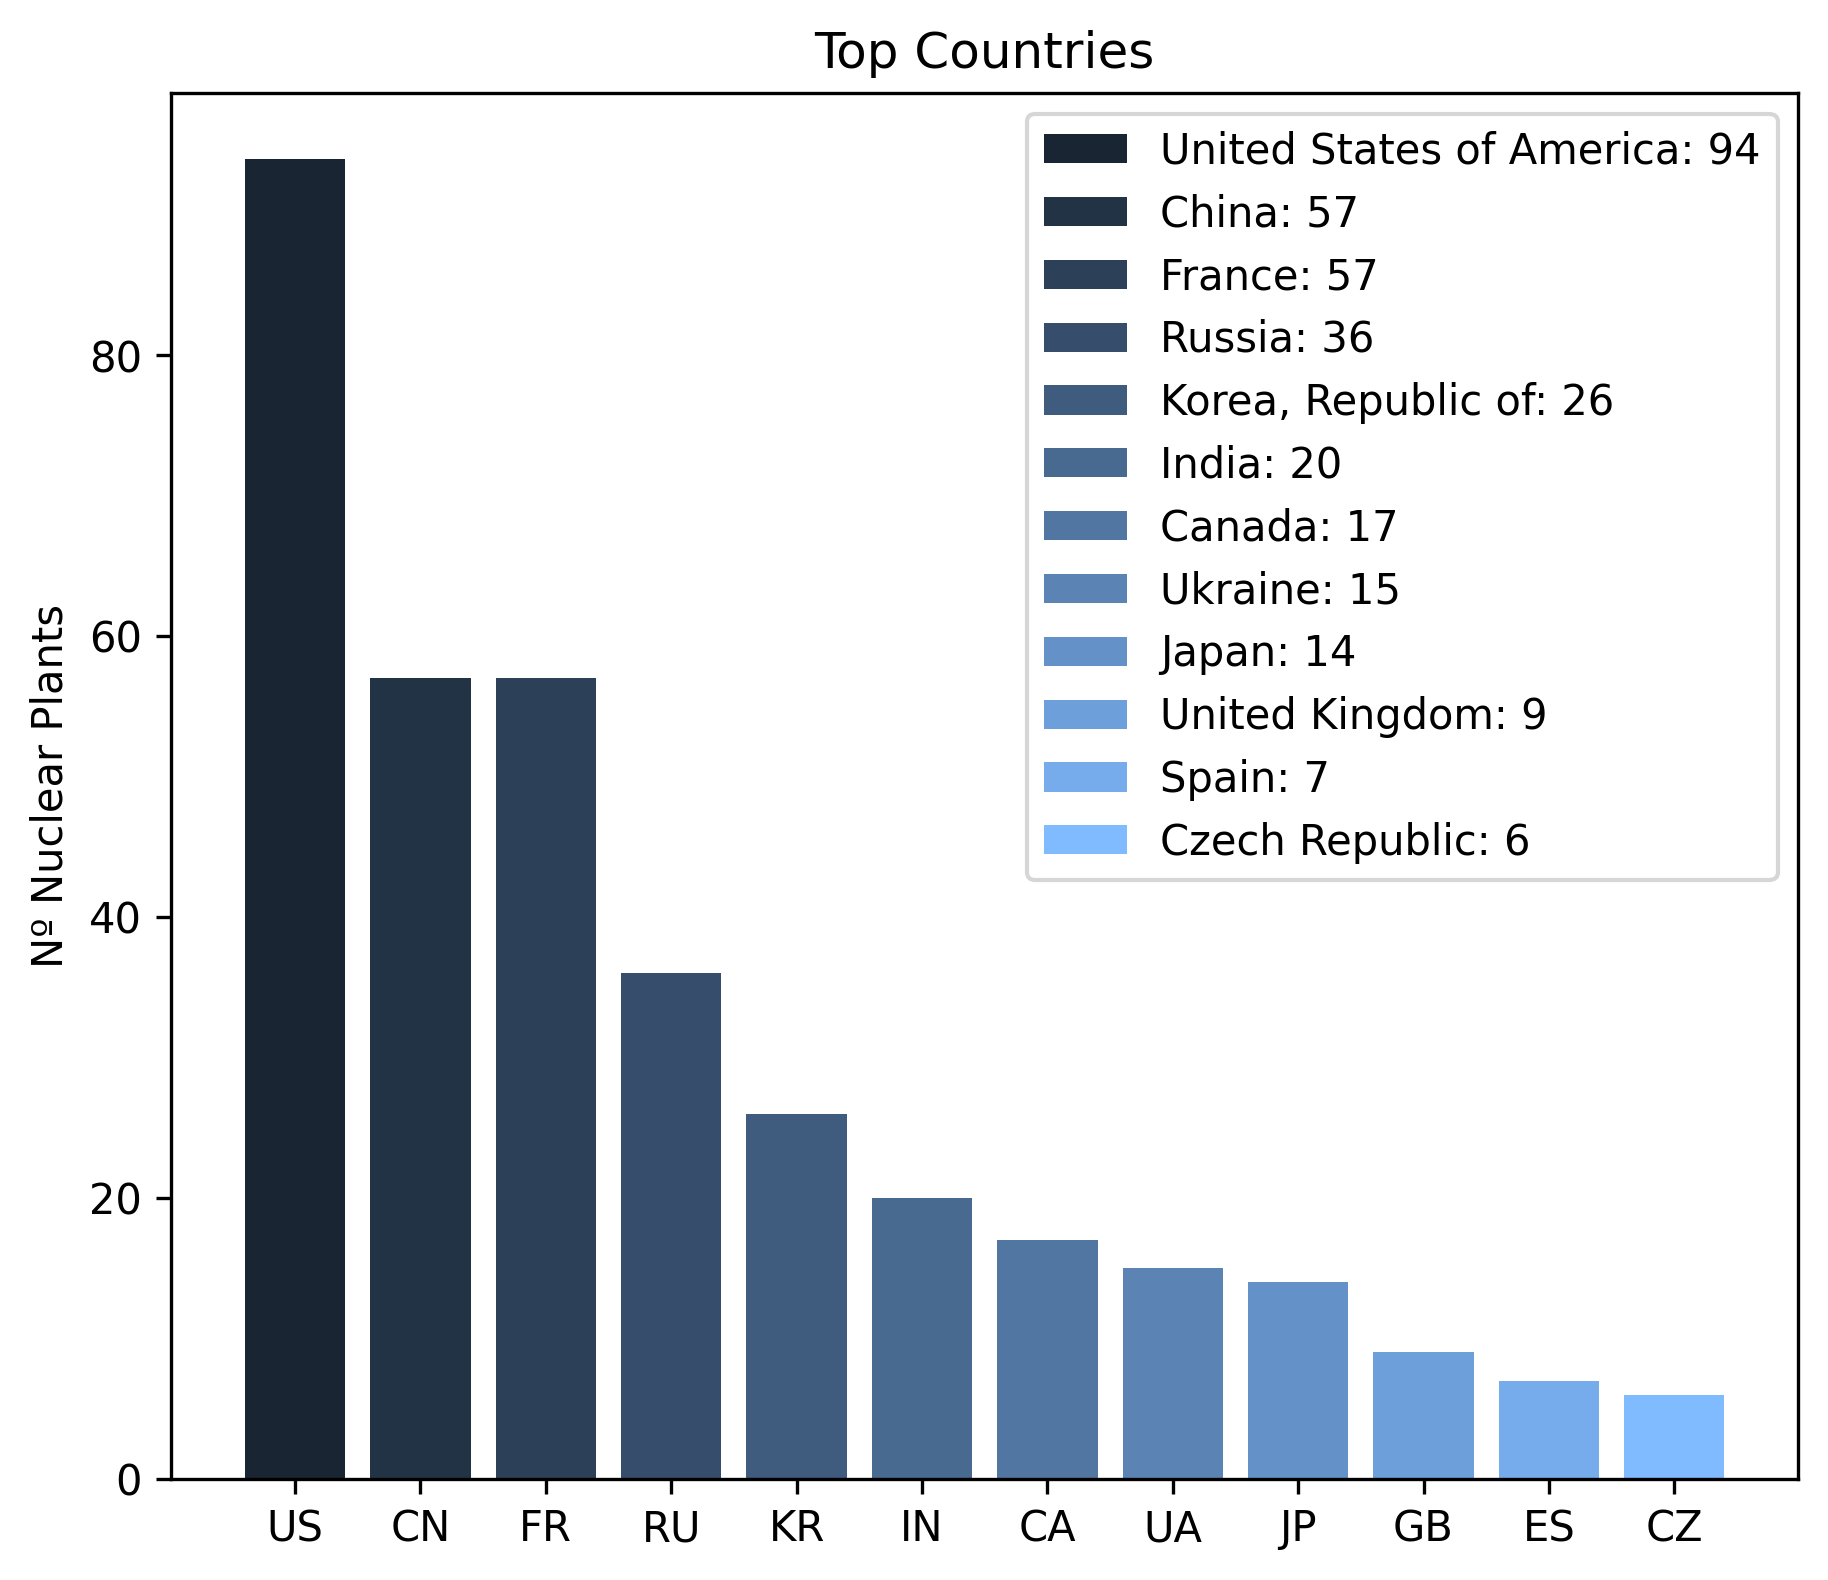
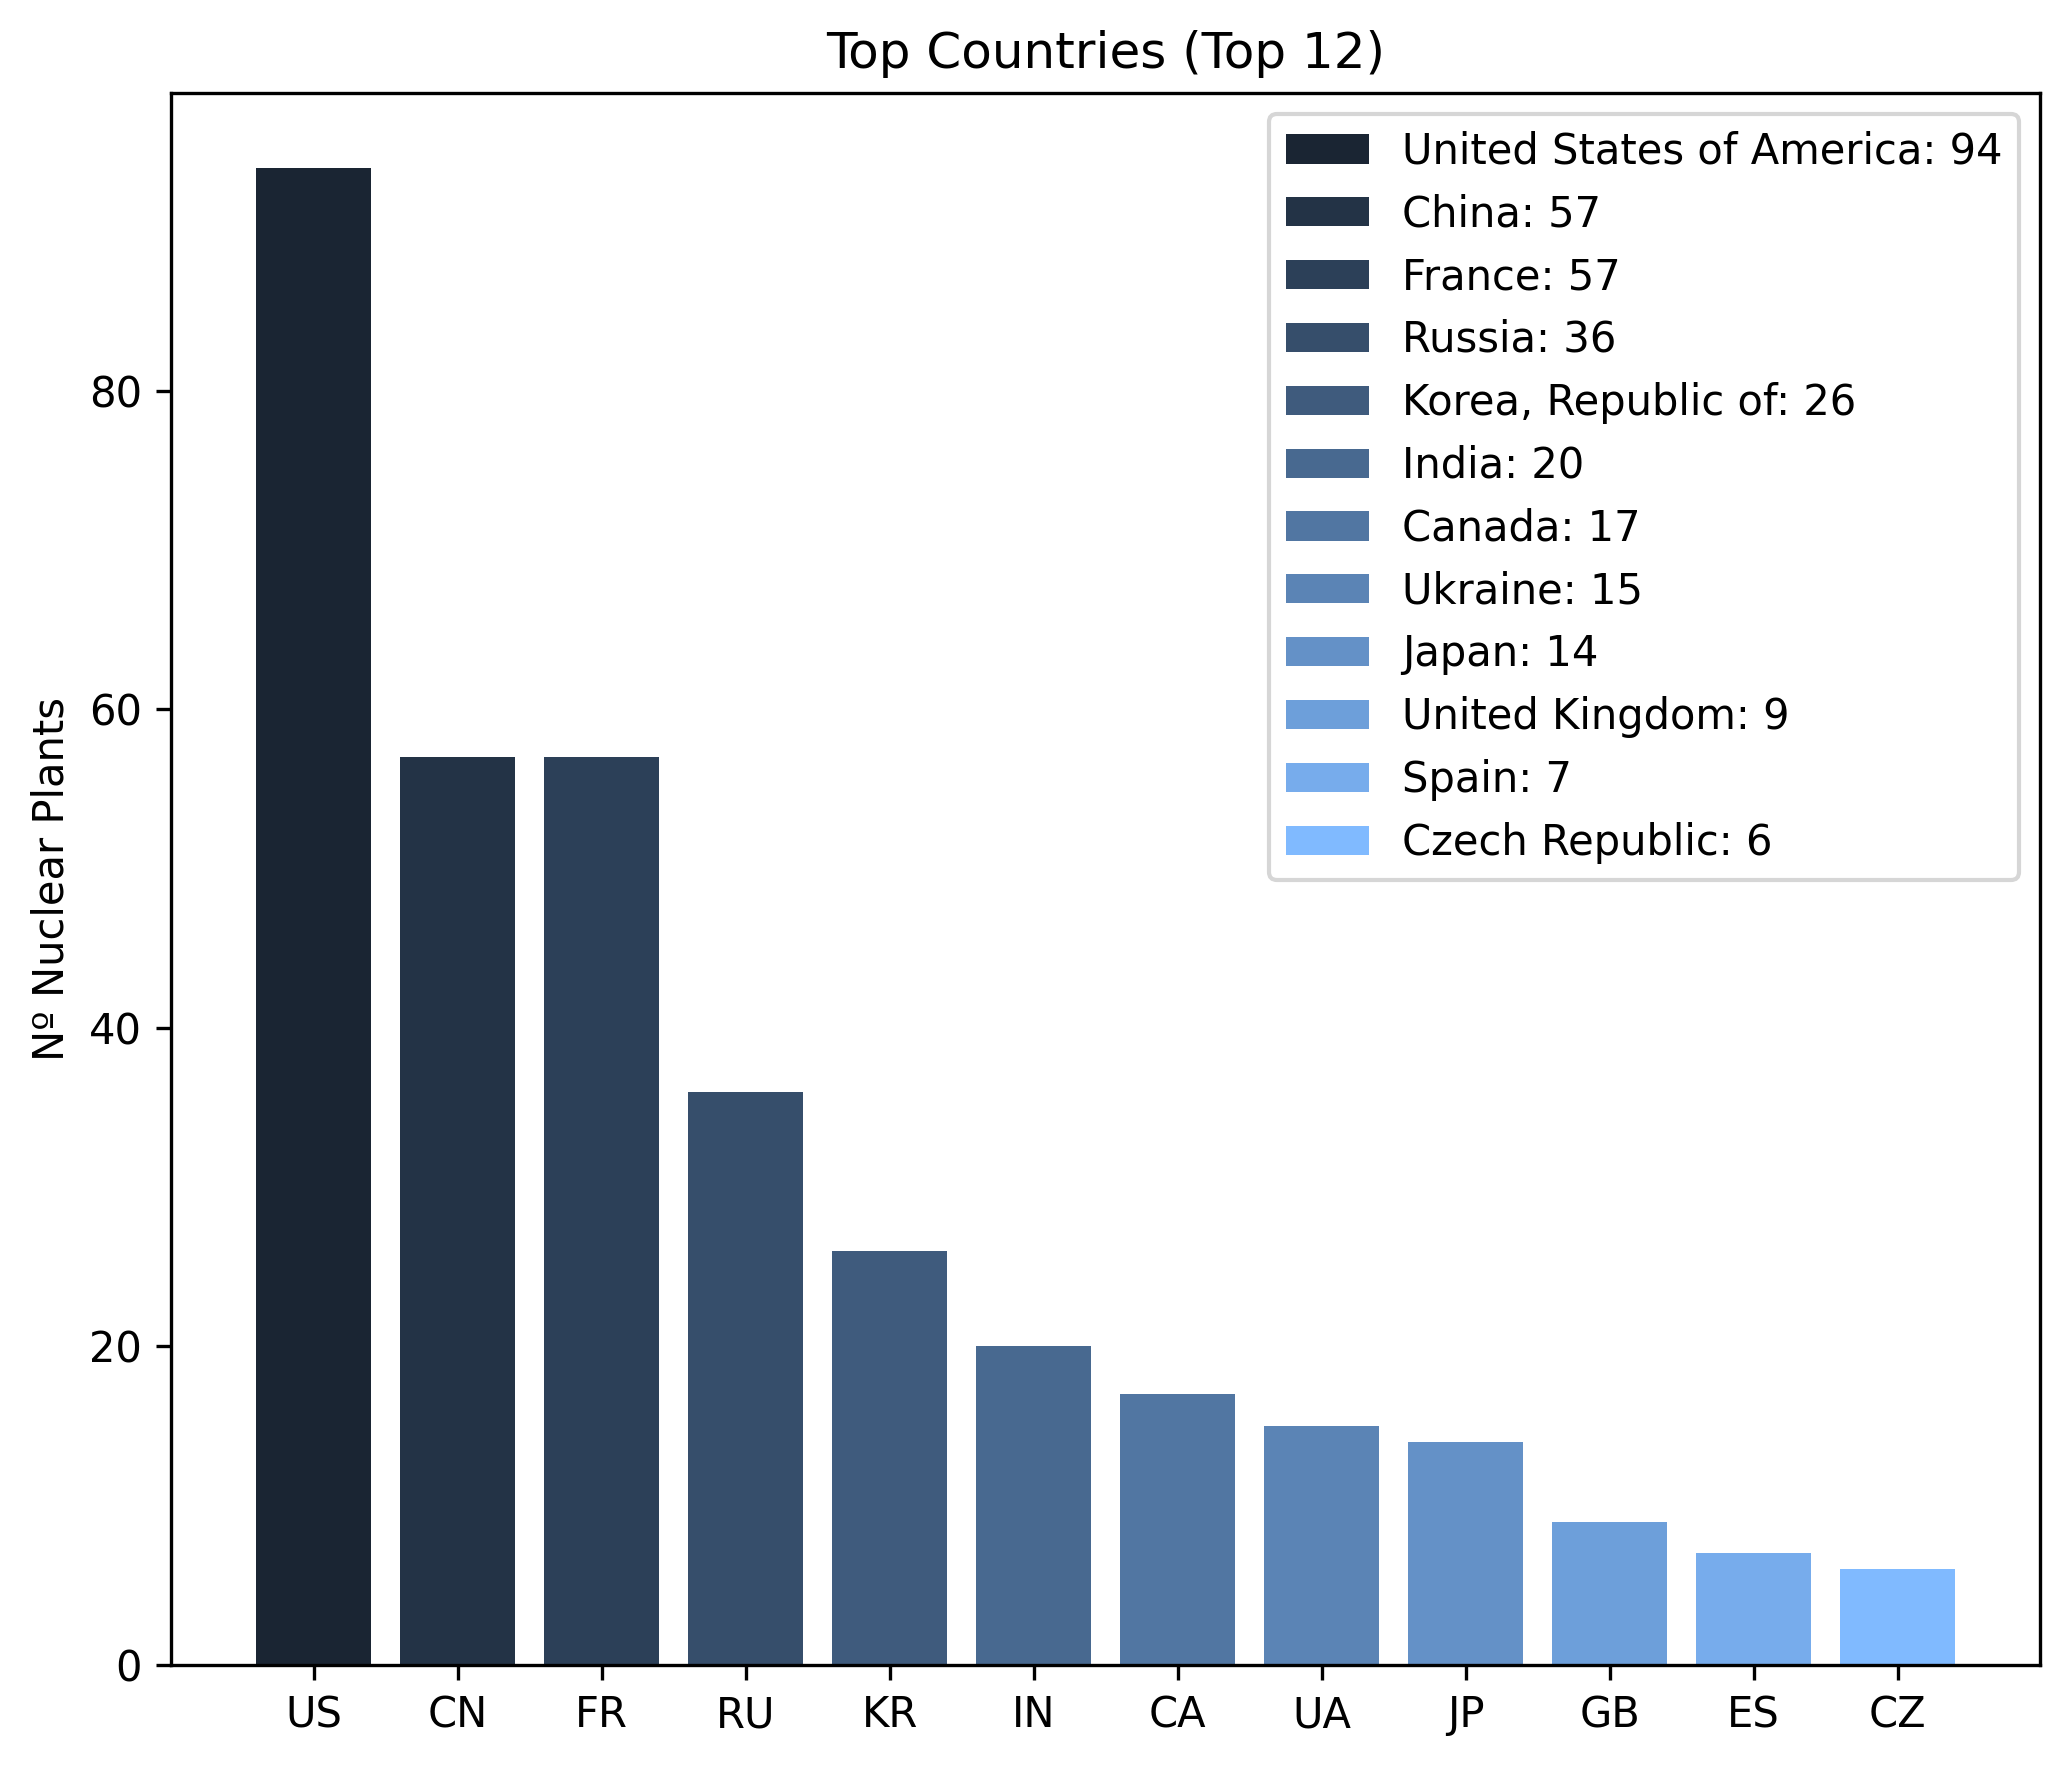
Update analizer

Changed region(s): [[0.0, 0.0, 0.9978, 0.9924], [0.8107, 0.8684, 0.9354, 0.8994], [0.7484, 0.8373, 0.8107, 0.8684]]

diff --git a/src/analysis/analizer.py b/src/analysis/analizer.py
@@ -12,6 +12,8 @@ def analizer_method():
     graph_numberReactorsStatus()
     graph_numberReactorsType()
     graph_numberReactorsCountry()
+    graph_efficiencyReactor()
+    graph_grossCapacityReactor()
 
 def graph_numberReactorsStatus():
 
@@ -47,8 +49,8 @@ def graph_numberReactorsStatus():
     legend_labels = [f"{key}: {value}" for key, value in list_types.items()]
     plt.legend(bars, legend_labels, loc="upper right")
 
+    plt.tight_layout()
     plt.savefig(f"{graph_location}/nuclear_plants_status.png", dpi=300, bbox_inches='tight')
-
     plt.show()
 
 def graph_numberReactorsType():
@@ -86,8 +88,8 @@ def graph_numberReactorsType():
     legend_labels = [f"{key}: {value}" for key, value in list_types.items()]
     plt.legend(bars, legend_labels, loc="upper right")
 
+    plt.tight_layout()
     plt.savefig(f"{graph_location}/nuclear_plants_types.png", dpi=300, bbox_inches='tight')
-
     plt.show()
 
 def graph_numberReactorsCountry():
@@ -121,12 +123,104 @@ def graph_numberReactorsCountry():
     plt.bar(keys, values, color=colors)
 
     plt.ylabel("Nº Nuclear Plants")
-    plt.title("Top Countries")
+    plt.title("Top Countries (Top 12)")
 
     legend_labels = [f"{key}: {value}" for key, value in list_types.items()]
     plt.legend(bars, legend_labels, loc="upper right")
 
+    plt.tight_layout()
     plt.savefig(f"{graph_location}/nuclear_plants_country.png", dpi=300, bbox_inches='tight')
-
     plt.show()
                         
+def graph_efficiencyReactor():
+
+    list_reactors = {}
+
+    json_data_list = load_json_generalData()
+
+    for data in json_data_list:
+           
+        if data["Reactor Status"] == "Operational":
+            
+            reactor_name = data["Reactor Name"]
+            term = data["Thernmal Capacity [MWt]"]
+            net_power = data["Reference Unit Power (Net Capacity) [MWe]"]
+
+            efficiency = round(int(net_power) / int(term) * 100, 2)
+            list_reactors[reactor_name] = efficiency
+           
+    list_reactors = dict(sorted(list_reactors.items(), key=lambda item: item[1], reverse=True))
+    list_reactors = dict(list(list_reactors.items())[:15])
+
+    values = list_reactors.values()
+    keys = list_reactors.keys()
+
+    plt.figure(figsize=(10, 5))
+
+    colors = generate_colors('#80baff', len(list_reactors))
+
+    bars = plt.barh(keys, values, color=colors)
+
+    plt.barh(keys, values, color=colors)
+
+    plt.xlabel("Efficiency (%)")
+    plt.xlim(0, 100)
+
+    plt.ylabel("Reactor Name")
+    plt.gca().invert_yaxis()
+
+    plt.title("Most Efficient Reactors (Top 15)")
+
+
+    for bar in bars:
+        plt.text(bar.get_width() + 5, bar.get_y() + bar.get_height()/2, f'{bar.get_width():,.2f}%', va='center')
+
+    plt.tight_layout()
+    plt.savefig(f"{graph_location}/nuclear_plants_efficiency.png", dpi=300, bbox_inches='tight')
+    plt.show()
+
+def graph_grossCapacityReactor():
+
+    list_reactors = {}
+
+    json_data_list = load_json_generalData()
+
+    for data in json_data_list:
+
+        if data["Reactor Status"] == "Operational":
+            
+            reactor_name = data["Reactor Name"]
+            gross_capacity = data["Gross Capacity [MWe]"]
+
+            list_reactors[reactor_name] = int(gross_capacity)
+        
+
+    list_reactors = dict(sorted(list_reactors.items(), key=lambda item: item[1], reverse=True))
+    list_reactors = dict(list(list_reactors.items())[:12])
+
+    values = list_reactors.values()
+    keys = list_reactors.keys()
+
+    plt.figure(figsize=(13, 6))
+
+    colors = generate_colors('#80baff', len(list_reactors))
+
+    bars = plt.barh(keys, values, color=colors)
+
+    # Ajuste de etiquetas y título
+    plt.xlabel("Gross Capacity (MWe)", fontsize=12)
+    plt.xlim(0, 2500)
+
+    plt.ylabel("Nuclear Plants", fontsize=12)
+    plt.gca().invert_yaxis()
+
+    plt.title("Top 12 Nuclear Plants by Gross Capacity", fontsize=14)
+
+
+    for bar in bars:
+        plt.text(bar.get_width() + 25, bar.get_y() + bar.get_height()/2, f'{bar.get_width():,.0f} MWe', va='center')
+
+    plt.tight_layout()
+    plt.savefig(f"{graph_location}/nuclear_plants_gross.png", dpi=300, bbox_inches='tight')
+    plt.show()
+

diff --git a/README.md b/README.md
@@ -5,7 +5,13 @@
 > [!IMPORTANT]  
 > Under Development.
 
+
+
+
 ![ATOMCRAWLER-graph](https://github.com/XRayBinary/AtomCrawler/blob/main/data/analized_data/graphs/nuclear_plants_status.png)
 ![ATOMCRAWLER-graph](https://github.com/XRayBinary/AtomCrawler/blob/main/data/analized_data/graphs/nuclear_plants_country.png)
 ![ATOMCRAWLER-graph](https://github.com/XRayBinary/AtomCrawler/blob/main/data/analized_data/graphs/nuclear_plants_types.png)
+![ATOMCRAWLER-graph](https://github.com/XRayBinary/AtomCrawler/blob/main/data/analized_data/graphs/nuclear_plants_efficiency.png)
+![ATOMCRAWLER-graph](https://github.com/XRayBinary/AtomCrawler/blob/main/data/analized_data/graphs/nuclear_plants_gross.png)
+
 
